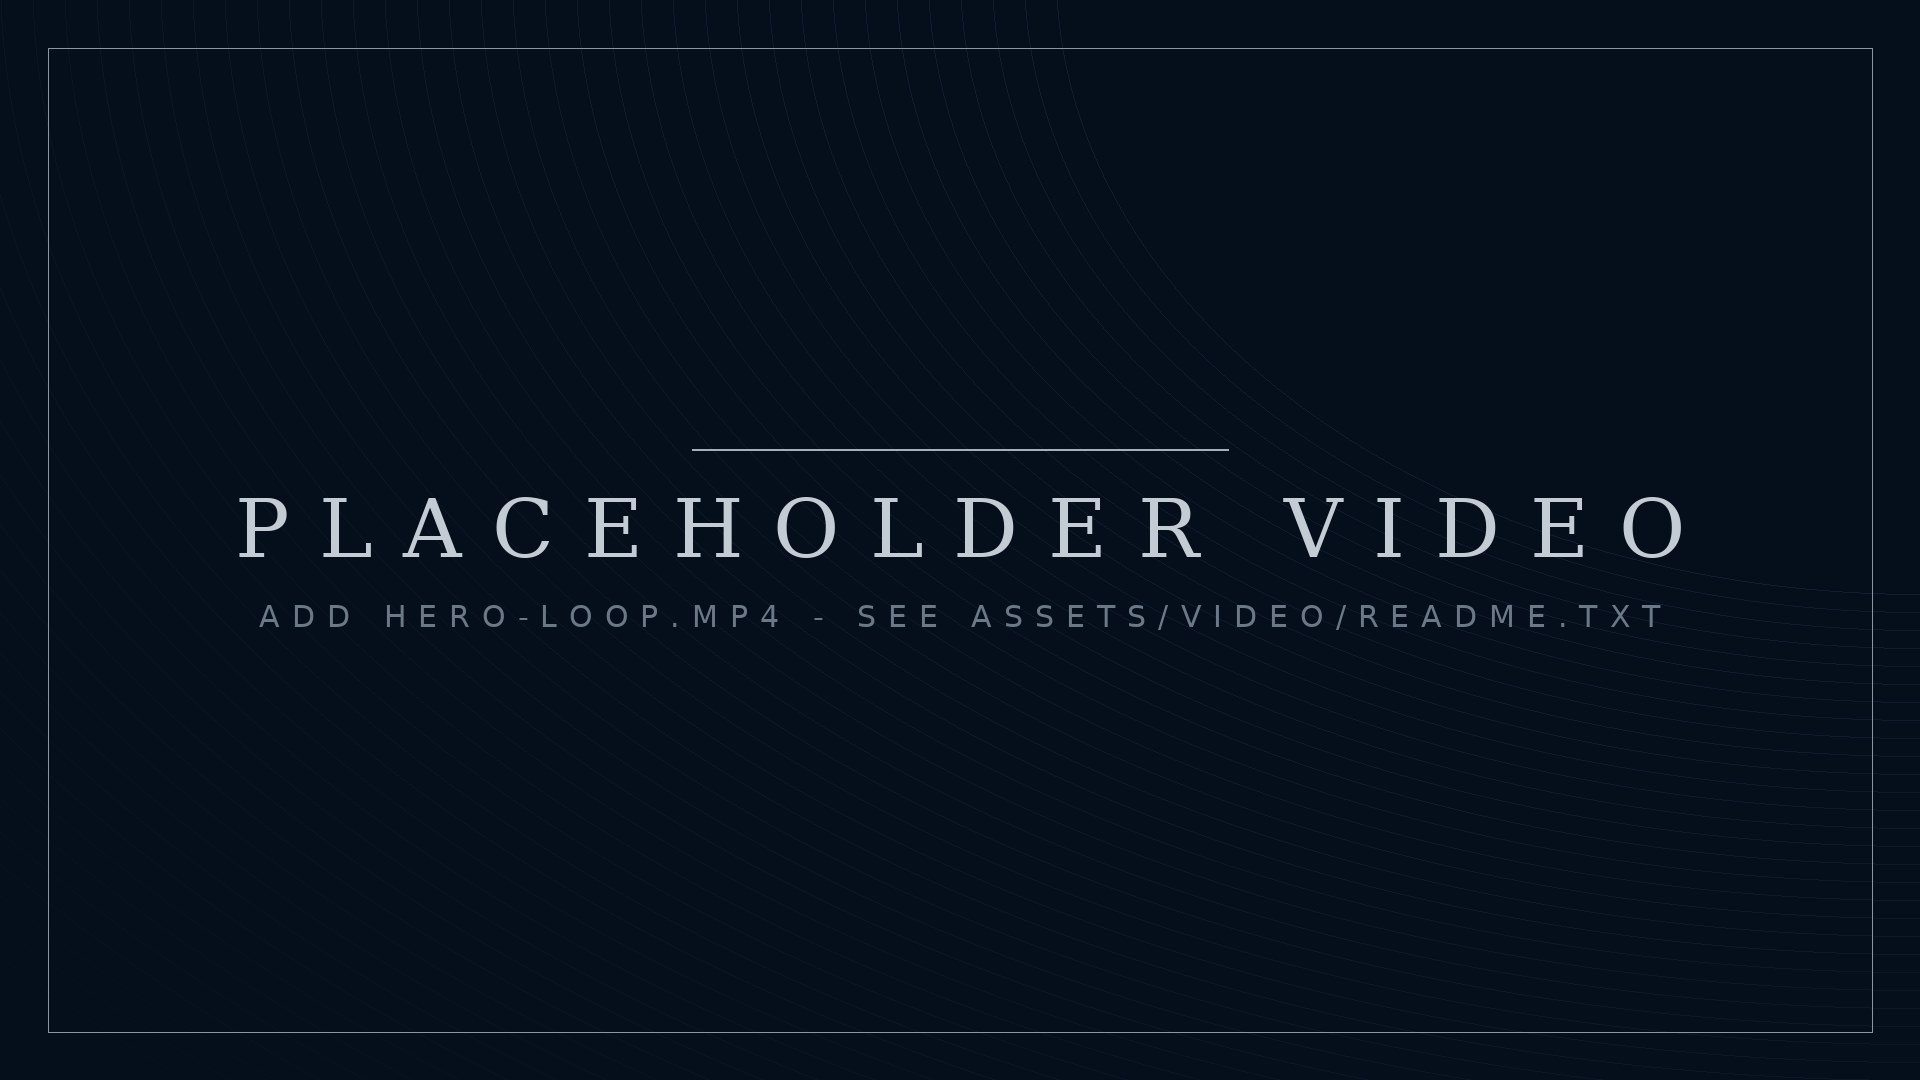
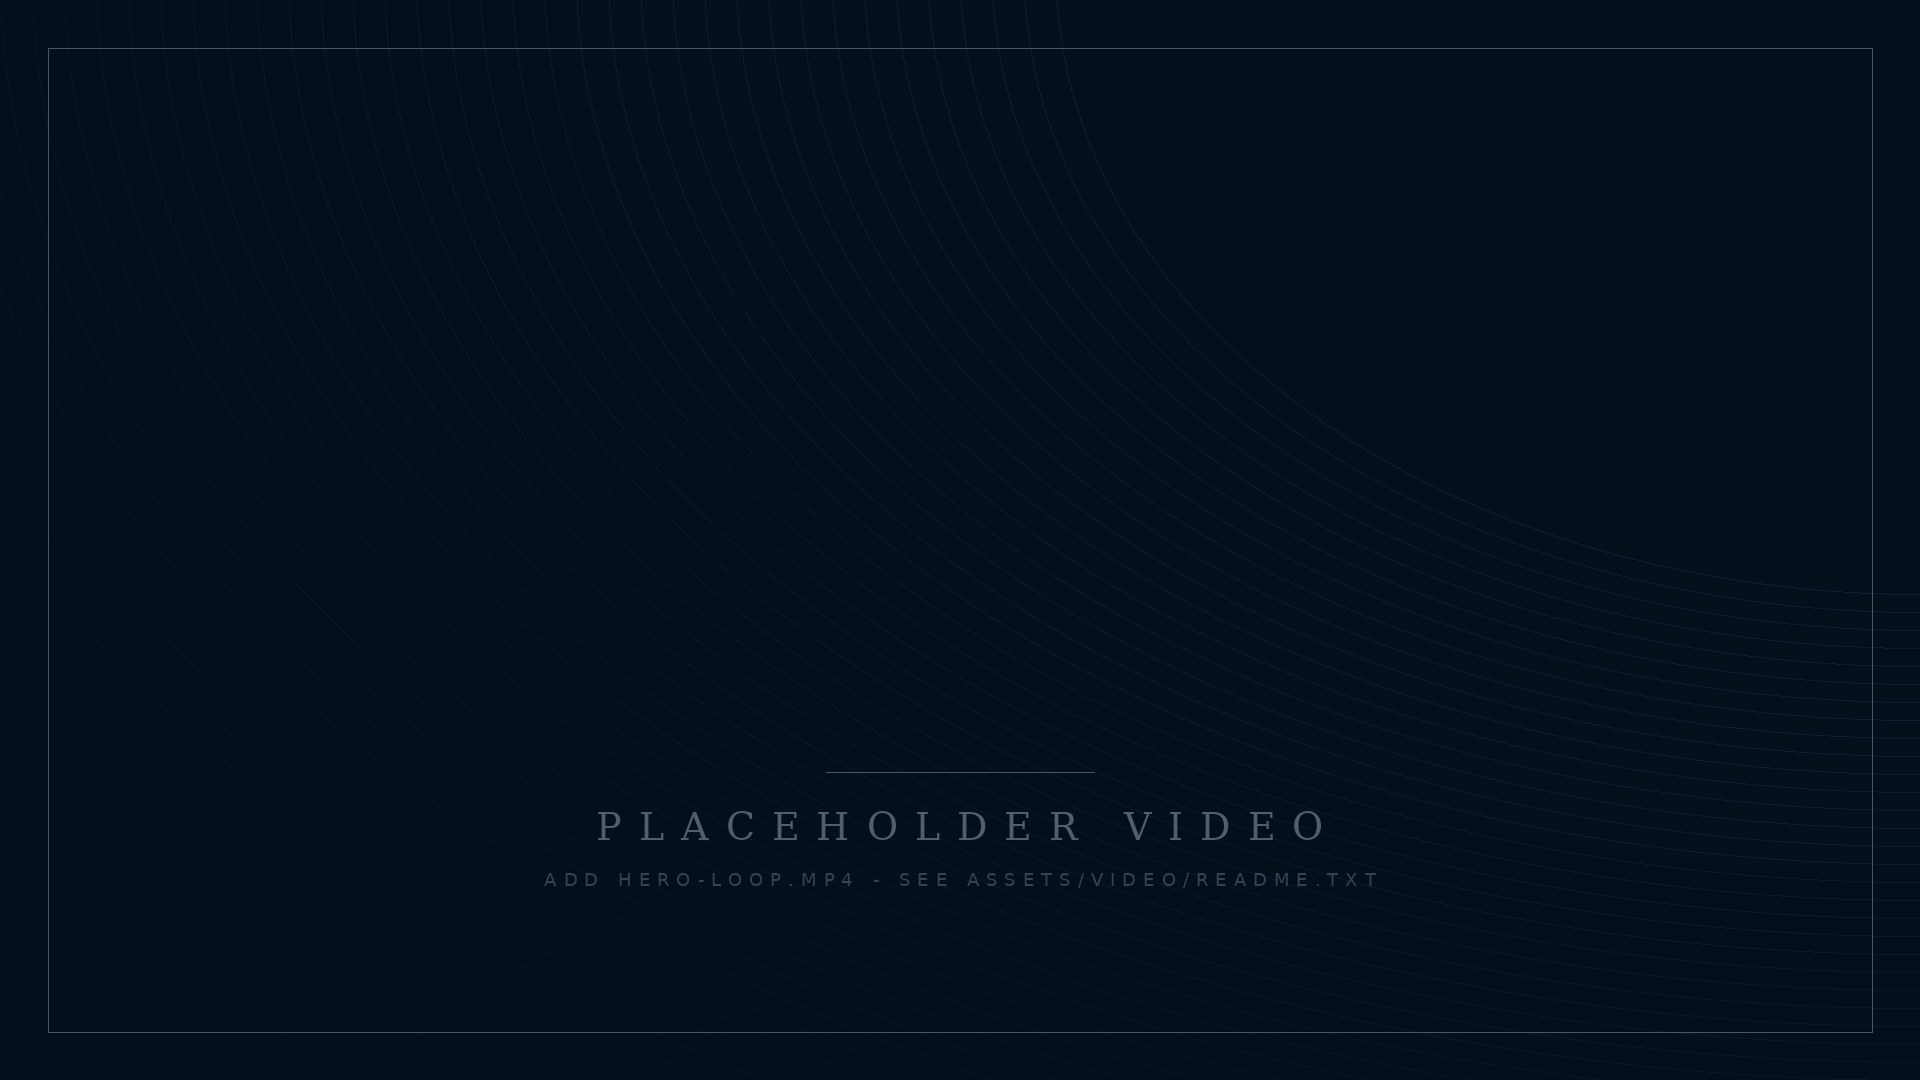
123

diff --git a/skylon-construction-website/assets/css/styles.css b/skylon-construction-website/assets/css/styles.css
@@ -579,11 +579,18 @@ html:not(.js) .hero__inner > * { opacity: 1; transform: none; }
   display: none;
   position: absolute;
   inset: 0;
-  background: linear-gradient(108deg,
-      transparent 46%, rgba(255, 255, 255, 0.55) 50%, transparent 54%);
-  background-size: 340% 100%;
-  background-repeat: no-repeat;
+  overflow: hidden;
   pointer-events: none;
+}
+.hero-brand__shine::before {
+  content: "";
+  position: absolute;
+  top: -10%; bottom: -10%;
+  left: 0;
+  width: 34%;
+  background: linear-gradient(105deg,
+      transparent 0%, rgba(255, 255, 255, 0.5) 50%, transparent 100%);
+  transform: translateX(-130%);
 }
 @supports ((-webkit-mask-image: url("")) or (mask-image: url(""))) {
   .hero-brand__shine {
@@ -596,12 +603,15 @@ html:not(.js) .hero__inner > * { opacity: 1; transform: none; }
     mask-size: contain;
     mask-repeat: no-repeat;
     mask-position: center;
-    animation: brand-shine 13s var(--ease) infinite;
+  }
+  .hero-brand__shine::before {
+    animation: brand-shine 14s var(--ease) infinite;
   }
 }
+/* Sweep crosses the logo in ~2.5s, then rests for ~10.5s */
 @keyframes brand-shine {
-  0%        { background-position: 200% 0; }
-  20%, 100% { background-position: -100% 0; }
+  0%        { transform: translateX(-130%); }
+  25%, 100% { transform: translateX(430%); }
 }
 
 .hero--brand .hero__lead { margin-inline: auto; margin-bottom: 2.2rem; }